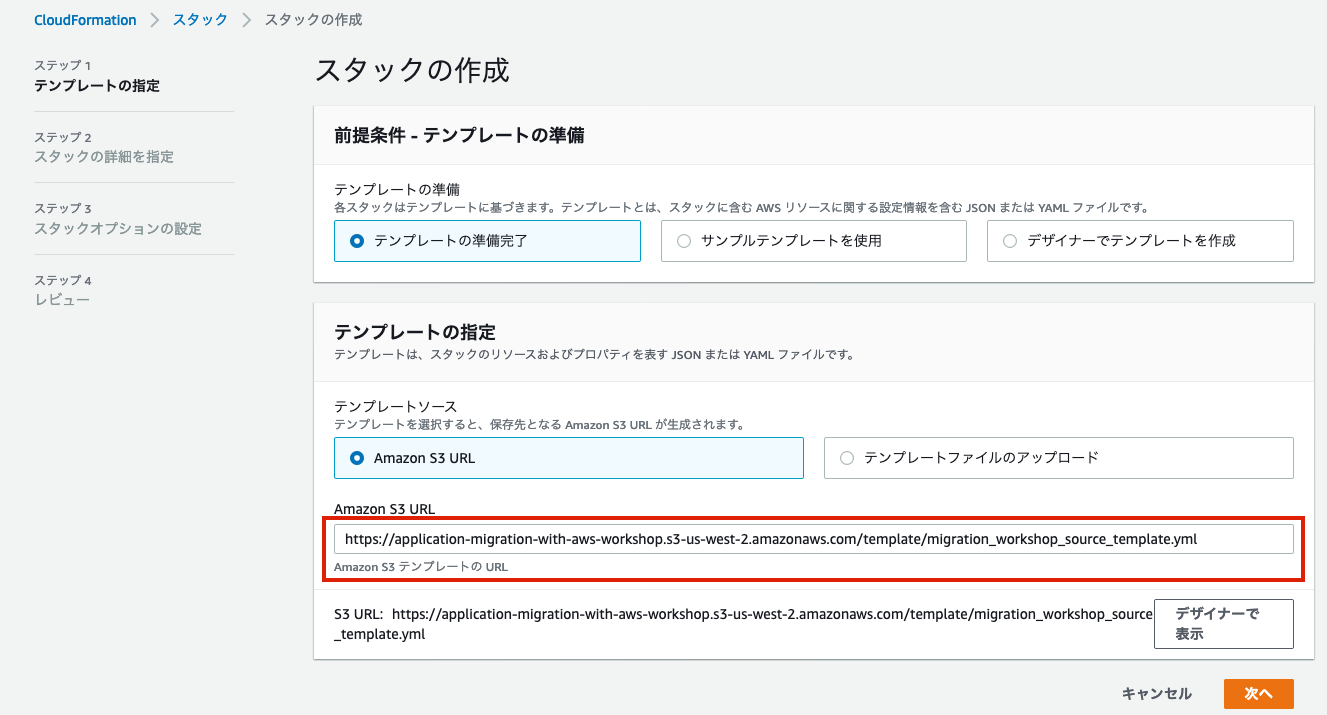
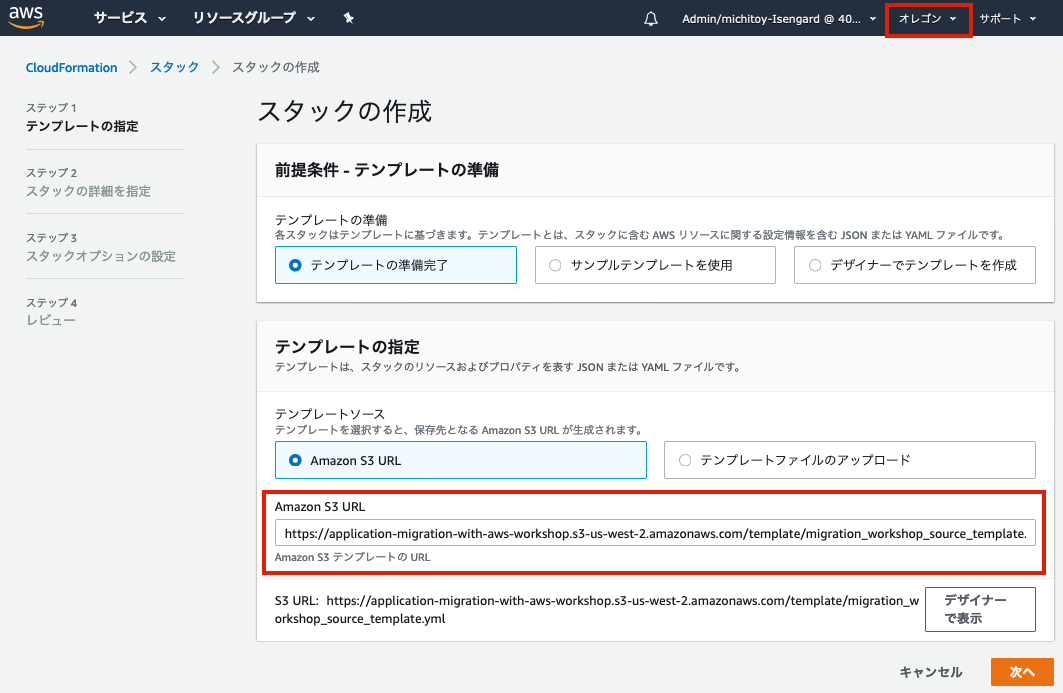
Fixed comments and standardized use of words in sections 0-2

Changed region(s): [[0.0, 0.0, 1.0, 1.0], [0.0, 0.0909, 0.1552, 0.4848], [0.1552, 0.0909, 0.1863, 0.1212]]

diff --git a/workshop/content/intro/on-your-own.ja.md b/workshop/content/intro/on-your-own.ja.md
@@ -4,51 +4,56 @@ weight = 20
 +++
 
 {{% notice warning %}}
-このセクションは、ご自身の環境でハンズオンを実施する場合にのみ、実行してください。AWS が主催するイベント（re:Invent、Gameday、ワークショップ、または AWS の従業員が主催するその他のイベント）に参加している場合は、[AWSイベントでハンズオンを開始する]({{< ref "/at-aws-event.ja.md" >}})に進んでください。
+このセクションは、ご自身の環境でハンズオンを実施する場合にのみ、実行してください。AWS が主催するイベント（re:Invent、Gameday、ワークショップ、または AWS の従業員が主催するその他のイベント）に参加している場合は、[AWSイベントでハンズオンを開始]({{< ref "/at-aws-event.ja.md" >}})に進んでください。
 {{% /notice %}}
 
 ### ハンズオン環境の準備
 
 本ハンズオンでは、AWS アカウントに<a href="https://docs.aws.amazon.com/IAM/latest/UserGuide/getting-started_create-admin-group.html" target="_blank">管理者権限</a>でアクセスできることを前提としています。新しく AWS アカウントを作成する場合は、<a href="https://aws.amazon.com/premiumsupport/knowledge-center/create-and-activate-aws-account/" target="_blank">こちらの記事</a>を参考にしてください。
 
-以下の手順では、移行元となる環境（Source）を、AWS アカウント内にデプロイします。デプロイされるリソースは、２つの t3.micro インスタンス（Web サーバ用に１つ、データベース用に１つ）、NAT Gateway、API Gateway、２つの Lambda 関数（EC2 インスタンスにアクセスする際に使用する、SSH キーペアの取得を簡略化するために使用）で構成されます。ハンズオン全体を通してデプロイされるリソースの総コストは、約４時間の作業で５ドル未満を想定しており、その一部は <a href="https://aws.amazon.com/free/" target="_blank">AWS 無料利用枠</a>でカバーされます。
+以下の手順では、移行元となる環境（ソース）を、AWS アカウント内にデプロイします。デプロイされるリソースは、2つの t3.micro インスタンス（Web サーバー用に1つ、データベース用に1つ）、NAT Gateway、API Gateway、2つの Lambda 関数（EC2 インスタンスにアクセスする際に使用する、SSH キーペアの取得を簡略化するために使用）で構成されます。ハンズオン全体を通してデプロイされるリソースの総コストは、約4時間の作業で5ドル未満を想定しており、その一部は <a href="https://aws.amazon.com/free/" target="_blank">AWS 無料利用枠</a>でカバーされます。
 
-不要な請求を避けるために、ハンズオンの完了後は必ず AWS アカウントを[クリーンアップ]({{< ref "/cleanup/_index.ja.md" >}})してください。
+不要な請求を避けるために、ハンズオンの完了後は必ず [ハンズオン環境の削除]({{< ref "/cleanup/_index.ja.md" >}})を実施してください。
 
 #### オプション1： CloudFormation による自動デプロイ
 
 1. 以下のボタンをクリックします。 <a href="https://console.aws.amazon.com/cloudformation/home?region=us-west-2#/stacks/new?stackName=ApplicationMigrationWorkshop&templateURL=https://application-migration-with-aws-workshop.s3-us-west-2.amazonaws.com/template/migration_workshop_source_template.yml" target="_blank"><img src="https://application-migration-with-aws-workshop.s3-us-west-2.amazonaws.com/static/cloudformation-launch-stack.png"></a>
 
-2. **「ステップ１ ： テンプレートの指定」** で、**Amazon S3 URL** のフィールドにテンプレートの URL（https://application-migration-with-aws-workshop.s3-us-west-2.amazonaws.com/template/migration_workshop_source_template.yml）が入力されていることを確認し、**「次へ」** をクリックします。
+2. **「ステップ1 ： テンプレートの指定」** で、画面右上に表示されるリージョンが**オレゴン**になっていること、
+**Amazon S3 URL** のフィールドにテンプレートの URL（https://application-migration-with-aws-workshop.s3-us-west-2.amazonaws.com/template/migration_workshop_source_template.yml）が入力されていることを確認し、**「次へ」** をクリックします。
 ![CloudFormation Step 1](/intro/cloudformation-step1.ja.png)
 
-3. **「ステップ２ ： スタックの詳細を指定」** で、**スタックの名前**のフィールドに、ApplicationMigrationWorkshop が入力されていることを確認し、**「次へ」** をクリックします。
+3. **「ステップ2 ： スタックの詳細を指定」** で、**スタックの名前**のフィールドに、ApplicationMigrationWorkshop が入力されていることを確認し、**「次へ」** をクリックします。
 ![CloudFormation Step 2](/intro/cloudformation-step2.ja.png)
 
-4. **「ステップ３ ： スタックオプションの設定」** では、何も変更せずに **「次へ」** をクリックします。
+4. **「ステップ3 ： スタックオプションの設定」** では、何も変更せずに **「次へ」** をクリックします。
 
-5. **「ステップ４ ： レビュー」** で、ページの一番下までスクロールし、以下のスクリーンショットのように、**すべてのチェックボックス** をオンにしてから、**「次へ」** をクリックして、スタックの作成を開始します。
+5. **「ステップ4 ： レビュー」** で、ページの一番下までスクロールし、以下のスクリーンショットのように、**すべてのチェックボックス** をオンにしてから、**「次へ」** をクリックして、スタックの作成を開始します。
 ![CloudFormation Step 4](/intro/cloudformation-step4.ja.png)
 
-スタックの状態が **CREATE_COMPLETE** になったことを確認し、**「出力」** タブから、以下のスクリーンショットのように、作成された Source 環境に関する情報を確認します。  
-作成中に、スタックのページから離れてしまった場合は、マネジメントコンソール上部の **「サービス」** から **CloudFormation** のページを開き、上の手順で作成したスタック（ApplicationMigrationWorkshop）を選択することで、元のページに戻ることが可能です。
+スタックの状態が **CREATE_COMPLETE** になったことを確認し、**「出力」** タブから、以下のスクリーンショットのように、作成されたソース環境に関する情報を確認します。  
+作成中に、スタックのページから離れてしまった場合は、マネジメントコンソール上部の **「サービス」** から **<a href="https://console.aws.amazon.com/cloudformation/home?region=us-west-2" target="_blank">CloudFormation</a>** のページを開き、上の手順で作成したスタック（ApplicationMigrationWorkshop）を選択することで、元のページに戻ることが可能です。
 ![Source Environment Information in AWS Console](/intro/self-service-env-awsconsole-info.ja.png)
 
 上で確認した情報は、ハンズオンで使用するため、テキストエディタ等にコピーを取っておいてください。
+
+{{% notice tip %}}
+AWS アカウント内に、既に同じ名前の IAM ロールが存在することで、スタックの作成が失敗する場合は、既存のロールを削除して、スタックの作成を再実行してください。
+{{% /notice %}}
 
 以上でデプロイは完了です。 [AWS Migration Hub の有効化]({{< ref "/migration-hub.ja.md" >}})に進んでください。
 
 ---
 
-#### オプション２： ソースコードからビルドしてデプロイ
+#### オプション2： ソースコードからビルドしてデプロイ
 
 {{% notice note %}}
-オプション１で環境をすでにデプロイしている場合は、オプション２を実行する必要はありません。
+オプション1で環境をすでにデプロイしている場合は、オプション2を実行する必要はありません。
 {{% /notice %}}
 
 以下のセクションでは、CloudFormation のテンプレートを作成し、AWS Command Line Interface（CLI）を使用して、環境をデプロイする方法について説明します。
 
-1. <a href="https://docs.aws.amazon.com/serverless-application-model/latest/developerguide/serverless-sam-cli-install.html" target="_blank">AWS Serverless Application Model (AWS SAM)</a> をインストールします。
+1. <a href="https://docs.aws.amazon.com/serverless-application-model/latest/developerguide/serverless-sam-cli-install.html" target="_blank">AWS Serverless Application Model (SAM)</a> をインストールします。
 
 2. <a href="https://docs.aws.amazon.com/cli/latest/userguide/cli-chap-install.html" target="_blank">AWS CLI</a> をインストールし、<a href="https://docs.aws.amazon.com/cli/latest/userguide/cli-chap-configure.html" target="_blank">設定</a>します。
 
@@ -70,10 +75,14 @@ weight = 20
    sam deploy --template-file ./migration_workshop_source_template.yml --stack-name ApplicationMigrationWorkshop --region us-west-2 --capabilities CAPABILITY_IAM CAPABILITY_NAMED_IAM CAPABILITY_AUTO_EXPAND  
    ```
 
-6. デプロイが完了すると、以下のスクリーンショットのように、Source 環境に関する情報がコンソールに表示されます。
+6. デプロイが完了すると、以下のスクリーンショットのように、ソース環境に関する情報がコンソールに表示されます。
 ![Source Environment in CLI Console](/intro/self-service-env-cli-info.ja.png)
 
-マネジメントコンソール上部の **「サービス」** から **CloudFormation** のページを開き、上の手順で作成したスタック（ApplicationMigrationWorkshop）を選択、**「出力」** タブを開くことで、同様の情報をいつでも確認することができます。
+マネジメントコンソール上部の **「サービス」** から **<a href="https://console.aws.amazon.com/cloudformation/home?region=us-west-2" target="_blank">CloudFormation</a>** のページを開き、上の手順で作成したスタック（ApplicationMigrationWorkshop）を選択、**「出力」** タブを開くことで、同様の情報をいつでも確認することができます。
 ![Source Environment Information in AWS Console](/intro/self-service-env-awsconsole-info.ja.png)
+
+{{% notice tip %}}
+AWS アカウント内に、既に同じ名前の IAM ロールが存在することで、スタックの作成が失敗する場合は、既存のロールを削除して、スタックの作成を再実行してください。
+{{% /notice %}}
 
 以上でデプロイは完了です。 [AWS Migration Hub の有効化]({{< ref "/migration-hub.ja.md" >}})に進んでください。

diff --git a/workshop/content/server-migration/CE-Cutover.ja.md b/workshop/content/server-migration/CE-Cutover.ja.md
@@ -7,11 +7,11 @@ weight = 40
 
 ボリュームのレプリケーションが完了し、CloudEndure コンソール上でマシンのステータスが **Continuous Data Replication** になっていることを確認したら、**テスト／カットオーバー**を実行することができます。
 
-テスト／カットオーバーを開始するたびに、CloudEndure Migration は、以前に作成したインスタンスを**すべて削除**し、Source 環境の最新のデータコピーを持つ新しい Target インスタンスを作成します。
+テスト／カットオーバーを開始するたびに、CloudEndure Migration は、以前に作成したインスタンスを**すべて削除**し、ソース環境の最新のデータコピーを持つ新しい ターゲットインスタンスを作成します。
 
 {{% notice note %}}
 本ハンズオンではテストをスキップして、**カットオーバーのみ**実行しますが、
-実運用においては、目標とする移行日の**少なくとも１週間前**に**テスト**を実施することをお勧めします。
+実運用においては、目標とする移行日の**少なくとも1週間前**に**テスト**を実施することをお勧めします。
 これは Blueprint の構成や、レプリケートされたボリュームの変換における、潜在的な課題を特定し、それらに対処するためです。
 {{% /notice %}}
 
@@ -29,7 +29,7 @@ weight = 40
 
     ![CE-Cutover](/ce/CE-Cutover.png)
 
-    CloudEndure は、ボリュームの最終的な同期／スナップショットを実行し、データの整合性を維持しながら、Target のインフラストラクチャに新しいサーバーを構築するプロセスを開始します。左のメニューから **Job Progress** を選択し、詳細や進行状況を確認してください。
+    CloudEndure は、ボリュームの最終的な同期／スナップショットを実行し、データの整合性を維持しながら、ターゲットのインフラストラクチャに新しいサーバーを構築するプロセスを開始します。左のメニューから **Job Progress** を選択し、詳細や進行状況を確認してください。
 
     ![CE-job-progress](/ce/CE-job-progress.png)
 
@@ -42,16 +42,16 @@ weight = 40
 
 3. CloudEndure が作成したリソースを AWS アカウント上で確認します。
    
-    AWS マネジメントコンソールに戻り、上部の **「サービス」** から **EC2** のページを開きます。
+    AWS マネジメントコンソールに戻り、上部の **「サービス」** から **<a href="https://console.aws.amazon.com/ec2/v2/home?region=us-west-2" target="_blank">EC2</a>** のページを開きます。
     必要に応じて対象の AWS リージョン（us-west-2/オレゴン）に移動してください。
 
-    CloudEndure で管理されている２つの EC2 インスタンスが、追加で表示されます：
+    CloudEndure で管理されている2つの EC2 インスタンスが、追加で表示されます：
     - **CloudEndure Machine Converter** - ブートボリュームの変換や、ブートローダへの変更の適用、ハイパーバイザードライバーやクラウドツールのインストールに使用されます。テストやカットオーバーが実行される度に、数分間稼働します。
-    - **CloudEndure Replication Server** - Source 環境にインストールされているエージェントから、暗号化されたデータを受信するために使用されます。データのレプリケーションが実行されている間稼働します。
+    - **CloudEndure Replication Server** - ソース環境にインストールされているエージェントから、暗号化されたデータを受信するために使用されます。データのレプリケーションが実行されている間稼働します。
 
     どちらのインスタンスも CloudEndure が管理しており、ユーザーがアクセスすることはできません。
 
-    カットオーバーが完了すると、リストに新しい EC2 インスタンスが表示されます - これはCloudEndure によって作成された Target の Web サーバです。後続のセクションで必要になるため、パブリック DNS (IPv4) とプライベートIP の値を、テキストエディタにコピーしておいてください。
+    カットオーバーが完了すると、リストに新しい EC2 インスタンスが表示されます - これはCloudEndure によって作成されたターゲットの Web サーバーです。後続のセクションで必要になるため、パブリック DNS (IPv4) とプライベートIP の値を、テキストエディタにコピーしておいてください。
 
     {{% notice tip %}}
 CloudEndure が管理するインスタンスや、その目的、ネットワーク要件の詳細は、<a href="https://docs.cloudendure.com/#Preparing_Your_Environments/Network_Requirements/Network_Requirements.htm" target="_blank">CloudEndure のドキュメント</a>を参照してください。

diff --git a/workshop/content/database-migration/setup_network.ja.md b/workshop/content/database-migration/setup_network.ja.md
@@ -3,7 +3,7 @@ title = "ネットワークの設定"
 weight = 15
 +++
 
-本ハンズオンでは VPN や AWS Direct Connect を使用しないため、DMS レプリケーションインスタンスは、Source データベースにはパブリックインターネット経由で接続し、Target データベースにはプライベートネットワーク経由で接続する必要があります。
+本ハンズオンでは VPN や AWS Direct Connect を使用しないため、AWS Database Migration Service （DMS）のレプリケーションインスタンスは、ソースデータベースにはパブリックインターネット経由で接続し、ターゲットデータベースにはプライベートネットワーク経由で接続する必要があります。
 
 ![Replication Instance Architecture](/db-mig/ri-network-conf.png)
 
@@ -11,7 +11,7 @@ weight = 15
 
 AWS DMS を利用するための最初のステップとして、**DMS レプリケーションインスタンス** で使用するサブネットの集合体である、**サブネットグループ** を設定する必要があります。
 
-1. マネジメントコンソール上部の **「サービス」** から **Database Migration Service** のページを開き、左のメニューから **「サブネットグループ」** をクリックします。
+1. マネジメントコンソール上部の **「サービス」** から **<a href="https://console.aws.amazon.com/dms/v2/home?region=us-west-2" target="_blank">Database Migration Service (DMS)</a>** のページを開き、左のメニューから **「サブネットグループ」** をクリックします。
 2. **「サブネットグループの作成」** ボタンをクリックします。
 3. **「レプリケーションサブネットグループの作成」** では、次のパラメータを入力します。
 
@@ -28,11 +28,11 @@ AWS DMS を利用するための最初のステップとして、**DMS レプリ
 
 ### セキュリティグループの設定
 
-次に、ハンズオンで使用する **VPC セキュリティグループ** で、DMS レプリケーションインスタンスから Target データベース（前頁で作成した RDS インスタンス）へのインバウンドトラフィックを許可する必要があります。
+次に、ハンズオンで使用する **Virtual Private Cloud (VPC) セキュリティグループ** で、DMS レプリケーションインスタンスから ターゲットデータベース（前頁で作成したデータベースインスタンス）へのインバウンドトラフィックを許可する必要があります。
 
 1. **DMS レプリケーションインスタンス** 用のセキュリティグループを作成します。
 
-    a. マネジメントコンソール上部の **「サービス」** から **EC2** のページを開き、左のメニューから **「セキュリティグループ」** をクリックします。
+    a. マネジメントコンソール上部の **「サービス」** から **<a href="https://console.aws.amazon.com/ec2/v2/home?region=us-west-2" target="_blank">EC2</a>** のページを開き、左のメニューから **「セキュリティグループ」** をクリックします。
 
     b. **「セキュリティグループの作成」** ボタンをクリックします。
 
@@ -46,9 +46,9 @@ AWS DMS を利用するための最初のステップとして、**DMS レプリ
 
 2. **DB-SG** セキュリティグループにインバウンドルールを追加します。
 
-    a. マネジメントコンソール上部の **「サービス」** から **EC2** のページを開き、左のメニューから **「セキュリティグループ」** をクリックします。
+    a. マネジメントコンソール上部の **「サービス」** から **<a href="https://console.aws.amazon.com/ec2/v2/home?region=us-west-2" target="_blank">EC2</a>** のページを開き、左のメニューから **「セキュリティグループ」** をクリックします。
   
-    b. 前頁で作成したデータベース用のセキュリティグループ **DB-SG** の**セキュリティグループ ID** をクリックします。
+    b. 前頁で作成したデータベースインスタンス用のセキュリティグループ **DB-SG** の**セキュリティグループ ID** をクリックします。
     
     c. DB-SG セキュリティグループの詳細画面で、**「インバウンドのルールの編集」** ボタンを押します。
       

diff --git a/workshop/content/database-migration/configure_source_database.ja.md b/workshop/content/database-migration/configure_source_database.ja.md
@@ -1,17 +1,17 @@
 +++
-title = "Source データベースの設定"
+title = "ソースデータベースの設定"
 weight = 35
 +++
 
 ### Change Data Capture (CDC) を使用した DMS レプリケーションタスクの実行
 
-データベース移行のダウンタイムを最小限に抑えるために、Source データベースから Target データベースへの継続的なレプリケーション（Change Data Capture, CDC）を利用します。AWS DMS における CDC とネイティブ CDC のサポートについては、<a href="https://aws.amazon.com/blogs/database/aws-dms-now-supports-native-cdc-support/" target="_blank">こちらの記事</a>を参照してください。
+データベース移行のダウンタイムを最小限に抑えるために、ソースデータベースから ターゲットデータベースへの継続的なレプリケーション（Change Data Capture, CDC）を利用します。AWS Database Migration Service (DMS) における CDC とネイティブ CDC のサポートについては、<a href="https://aws.amazon.com/blogs/database/aws-dms-now-supports-native-cdc-support/" target="_blank">こちらの記事</a>を参照してください。
 
-#### Source データベースでのバイナリログ有効化
+#### ソースデータベースでのバイナリログ有効化
 
-MySQL データベース から **AWS DMS** で継続的なレプリケーションを行う場合は、バイナリログを有効化し、Source データベースの設定変更を行う必要があります。
+MySQL データベース から **AWS DMS** で継続的なレプリケーションを行う場合は、バイナリログを有効化し、ソースデータベースの設定変更を行う必要があります。
 
-1. Source データベースサーバにログインします。
+1. ソースデータベースサーバーにログインします。
 
     **自身の環境**でハンズオンを実施している場合、接続に必要な情報は <a href="https://us-west-2.console.aws.amazon.com/cloudformation/home?region=us-west-2#/" target="_blank">CloudFormation スタック</a>（**ApplicationMigrationWorkshop**）の**出力**セクションに表示されています。
     
@@ -21,13 +21,13 @@ MySQL データベース から **AWS DMS** で継続的なレプリケーショ
     
     ![Database Server login information](/db-mig/db-server-ssh-event.png)
 
-    SSH を使ってサーバにアクセスする方法がわからない場合は、以下を確認してください：
+    SSH を使ってサーバーにアクセスする方法がわからない場合は、以下を確認してください：
     - Microsoft Windows をお使いの場合は<a href="https://docs.aws.amazon.com/AWSEC2/latest/UserGuide/putty.html" target="_blank">こちら</a>
     - Mac OS をお使いの場合は<a href="https://docs.aws.amazon.com/quickstarts/latest/vmlaunch/step-2-connect-to-instance.html#sshclient" target="_blank">こちら</a>
 
 2. **wordpress-user** データベースユーザに追加の権限を付与します。
 
-    データベースサーバで、以下のコマンドを実行します：
+    データベースサーバーで、以下のコマンドを実行します：
 
     ```
     sudo mysql -u root -pAWSRocksSince2006
@@ -40,7 +40,7 @@ MySQL データベース から **AWS DMS** で継続的なレプリケーショ
 
 3. **バイナリログ**用のディレクトリを作成します。 
 
-    データベースサーバで、以下のコマンドを実行します：
+    データベースサーバーで、以下のコマンドを実行します：
 
     ```
     sudo su - 
@@ -85,7 +85,7 @@ MySQL データベース から **AWS DMS** で継続的なレプリケーショ
     ```
 
     {{% notice warning %}}
-変更を適用するには、mysql サービスの再起動が必要です。これにより、数秒間 Source データベースへのアクセスが中断されます。
+変更を適用するには、mysql サービスの再起動が必要です。これにより数秒間、ソースデータベースへのアクセスが中断されます。
 {{% /notice %}}    
 
 6. 変更点のテストを実施します。

diff --git a/workshop/content/intro/at-aws-event.ja.md b/workshop/content/intro/at-aws-event.ja.md
@@ -5,12 +5,12 @@ weight = 30
 +++
 
 {{% notice warning %}}
-AWS が主催するイベント（re:Invent、Gameday、ワークショップ、または AWS の従業員が主催するその他のイベント）に参加している場合にのみ、このセクションを実行してください。ご自身の環境でハンズオンを実施する場合は、[自身の環境でハンズオンを開始する]({{< ref "/on-your-own.ja.md" >}})に進んでください。
+AWS が主催するイベント（re:Invent、Gameday、ワークショップ、または AWS の従業員が主催するその他のイベント）に参加している場合にのみ、このセクションを実行してください。ご自身の環境でハンズオンを実施する場合は、[自身の環境でハンズオンを開始]({{< ref "/on-your-own.ja.md" >}})に進んでください。
 {{% /notice %}}
 
 ### ダッシュボードへのアクセス
 
-以下のセクションでは、移行元となる環境（Source）に関する情報へのアクセス方法について、説明します。
+以下のセクションでは、移行元となる環境（ソース）に関する情報へのアクセス方法について、説明します。
 
 - <a href="https://dashboard.eventengine.run/" target="_blank">https://dashboard.eventengine.run/</a> にアクセスします
 
@@ -21,9 +21,9 @@ AWS が主催するイベント（re:Invent、Gameday、ワークショップ、
 
 
 
-### 移行元（Source）環境へのアクセス
+### 移行元（ソース）環境へのアクセス
 
-**Migration GameDay** モジュールの、**Outputs** セクション配下に、Source 環境に関する詳細が表示されます：
+**Migration GameDay** モジュールの、**Outputs** セクション配下に、ソース環境に関する詳細が表示されます：
 
   ![dashboard-output](/intro/src-env-output.png)
 
@@ -44,7 +44,7 @@ AWS が主催するイベント（re:Invent、Gameday、ワークショップ、
 
 
 {{% notice note %}}
-<a href="https://aws.amazon.com/cli/" target="_blank">AWS Command Line Interface (AWS CLI)</a> を使用する場合は、ポップアップウィンドウに表示される認証情報を利用してください。なお、この認証情報は CloudEndure で使用するものとは異なりますので、CloudEndure コンソールの AWS 認証タブには入力しないで下さい。
+<a href="https://aws.amazon.com/cli/" target="_blank">AWS Command Line Interface (CLI)</a> を使用する場合は、ポップアップウィンドウに表示される認証情報を利用してください。なお、この認証情報は CloudEndure で使用するものとは異なりますので、CloudEndure コンソールの AWS Credentials タブには入力しないで下さい。
 {{% /notice %}}
 
 以上で環境の確認は完了です。 [AWS Migration Hub の有効化]({{< ref "/migration-hub.ja.md" >}})に進んでください。

diff --git a/workshop/content/database-migration/Create-Source-and-Target-endpoints.ja.md b/workshop/content/database-migration/Create-Source-and-Target-endpoints.ja.md
@@ -4,9 +4,9 @@ weight = 30
 +++
 
 
-### エンドポイントの作成
+### ソースとターゲットのエンドポイントの作成
 
-**AWS DMS** のページで、左のメニューから **「エンドポイント」** を選択し、**「エンドポイントの作成」** ボタンをクリックします。
+**AWS Database Migration Service (DMS)** のページで、左のメニューから **「エンドポイント」** を選択し、**「エンドポイントの作成」** ボタンをクリックします。
 
 1. ソースエンドポイントを作成します。 
 
@@ -25,7 +25,7 @@ weight = 30
 
     ![source-endpoint](/db-mig/source-endpoint.ja.png)
 
-    **「エンドポイント接続のテスト（オプション）」** セクションを開き、**VPC** のドロップダウンリストから **TargetVPC** を選択し、**「テストの実行」** ボタンをクリックすることで、エンドポイントの設定が有効であることを確認します。
+    **「エンドポイント接続のテスト（オプション）」** セクションを開き、**Virtual Private Cloud (VPC)** のドロップダウンリストから **TargetVPC** を選択し、**「テストの実行」** ボタンをクリックすることで、エンドポイントの設定が有効であることを確認します。
 
     ![test-source-endpoint](/db-mig/test-source-endpoint.ja.png)
 
@@ -41,7 +41,7 @@ weight = 30
     | ------------------- | ----------------------------------------------------- |
     | エンドポイントタイプ       | ターゲットエンドポイント                                       |
     | RDS DB インスタンスの選択  | チェックを入れる                                            |
-    | RDS インスタンス          | 前頁で作成した RDS インスタンスをドロップダウンリストから選択（表示されない場合は、手動で DB 識別子を入力）  |
+    | RDS インスタンス          | 前頁で作成した Amazon Relational Database Service (RDS) のインスタンスをドロップダウンリストから選択（表示されない場合は、手動で DB 識別子を入力）  |
     | エンドポイント識別子       | target-endpoint                                       |
     | ターゲットエンジン         | mysql （自動入力）                                                |
     | サーバー名                | RDS インスタンスの DNS エンドポイント（自動入力）                             |

diff --git a/workshop/content/server-migration/CE-Agent-Installation.ja.md b/workshop/content/server-migration/CE-Agent-Installation.ja.md
@@ -1,14 +1,14 @@
 +++
-title = "Source マシンへのエージェントインストール"
+title = "ソースマシンへのエージェントインストール"
 weight = 20
 +++
 
-<a href="https://console.cloudendure.com">CloudEndure コンソール</a>から、Source マシンの追加方法と、マシンにエージェントをインストールするための手順が表示される **Machines** 画面に移動します。
+<a href="https://console.cloudendure.com">CloudEndure コンソール</a>から、ソースマシンの追加方法と、マシンにエージェントをインストールするための手順が表示される **Machines** 画面に移動します。
 ![CE-Agent-install](/ce/CE-Agent-install.png)
 
-#### Web サーバへのエージェントインストール
+#### Web サーバーへのエージェントインストール
 
-1. Web サーバに関する情報を確認します。
+1. Web サーバーに関する情報を確認します。
 
     **自身の環境**でハンズオンを実施している場合は、<a href="https://us-west-2.console.aws.amazon.com/cloudformation/home?region=us-west-2#/" target="_blank">CloudFormation スタック</a>（**ApplicationMigrationWorkshop**）の**出力**セクションから確認してください。
 
@@ -18,12 +18,12 @@ weight = 20
 
     ![Centos-pem](/ce/Centos-pem.png)
 
-2. Web サーバの SSH キー（.pem）をダウンロードして、ローカルに保存します（例： webserver.pem）
+2. Web サーバーの SSH キー（.pem）をダウンロードして、ローカルに保存します（例： webserver.pem）
 
     Microsoft Windows をお使いの場合は、PuttyGen を使って SSH キー（.pem）を .ppk に変換してから、 Putty を使って接続してください（詳細は<a href="https://docs.aws.amazon.com/AWSEC2/latest/UserGuide/putty.html" target="_blank">こちら</a>をご確認ください）。
     
 
-3. Web サーバに、SSH ターミナルを使って接続します。
+3. Web サーバーに、SSH ターミナルを使って接続します。
 
     - Microsoft Windows をお使いの場合は<a href="https://docs.aws.amazon.com/AWSEC2/latest/UserGuide/putty.html" target="_blank">こちら</a>
     - Mac OS をお使いの場合は<a href="https://docs.aws.amazon.com/quickstarts/latest/vmlaunch/step-2-connect-to-instance.html#sshclient" target="_blank">こちら</a>

diff --git a/workshop/content/database-migration/Create-and-run-Replication-task.ja.md b/workshop/content/database-migration/Create-and-run-Replication-task.ja.md
@@ -5,7 +5,7 @@ weight = 40
 
 ### レプリケーションタスクの作成と実行
 
-マネジメントコンソール上部の **「サービス」** から **Database Migration Service** のページを開き、左のメニューから **「データベース移行タスク」** をクリックします。**「タスクの作成」** ボタンをクリックして、レプリケーションタスクの作成を開始します。
+マネジメントコンソール上部の **「サービス」** から **<a href="https://console.aws.amazon.com/dms/v2/home?region=us-west-2" target="_blank">Database Migration Service (DMS)</a>** のページを開き、左のメニューから **「データベース移行タスク」** をクリックします。**「タスクの作成」** ボタンをクリックして、レプリケーションタスクの作成を開始します。
 
 1. **「データ移行タスクの作成」** 画面で、以下のパラメータを入力します。
 
@@ -30,10 +30,10 @@ weight = 40
     
     ![create-task-2](/db-mig/create-task-2.ja.png)
     
-3. **「テーブルマッピング」** のセクションで、**「ガイド付き UI」** を選択し、**「新しい選択ルールの追加」** ボタンをクリックします。スキーマのドロップダウンリストから **wordpress-db** を選択します。
+3. **「テーブルマッピング」** のセクションで、**「ガイド付き UI」** を選択し、**「新しい選択ルールの追加」** ボタンをクリックします。**スキーマ**のドロップダウンリストから **wordpress-db** を選択します。
 
     {{% notice note %}}
-スキーマのドロップダウンリストに **wordpress-db** が表示されない場合は、スキーマのドロップダウンリストから、**「スキーマの入力」** を選択し、スキーマ名のフィールドに **wordpress-db** を入力します。
+**スキーマ**のドロップダウンリストに wordpress-db が表示されない場合は、**スキーマ**のドロップダウンリストから、**「スキーマの入力」** を選択し、**スキーマ名**のフィールドに **wordpress-db** を入力します。
 {{% /notice %}}    
 
     ![Create-task-3](/db-mig/Create-task-3.ja.png)

diff --git a/workshop/content/_index.ja.md b/workshop/content/_index.ja.md
@@ -6,18 +6,18 @@ pre = "<b>0. </b>"
 +++
 
 本ハンズオンでは、BuyMyUnicorns という eコマースシステムのクラウド移行にチャレンジいただきます！
-まずは、移行元（Source）と移行先の環境（Target）について、以下を確認してください。
+まずは、移行元（ソース）と移行先の環境（ターゲット）について、以下を確認してください。
 
-## 移行元環境：Source
+## 移行元環境：ソース
 
 ![source-env](/intro/source-env.png)
 
-Source 環境は、２層で構成される eコマースの Web アプリケーションです。  
-Apache、PHP、Wordpress、WooCommerce が稼働する Ubuntu ベースの Web サーバと、MySQL バージョン5.7 が稼働する Ubuntu ベースのデータベースサーバで、構成されています。
+ソース環境は、2層で構成される eコマースの Web アプリケーションです。  
+Apache、PHP、Wordpress、WooCommerce が稼働する Ubuntu ベースの Web サーバーと、MySQL バージョン5.7 が稼働する Ubuntu ベースのデータベースサーバーで、構成されています。
 
-## 移行先環境：Target
+## 移行先環境：ターゲット
 
 ![target-env](/intro/target-vpc.png)
 
-Source 環境で稼働する eコマースシステムを AWS Cloud に移行します。
-上の図は移行先のネットワークとなる VPC が、２つのアベイラビリティゾーンにまたがる６つのサブネットで構成されることを示しています。
+ソース環境で稼働する eコマースシステムを AWS Cloud に移行します。
+上の図は移行先のネットワークとなる VPC が、2つのアベイラビリティゾーンにまたがる6つのサブネットで構成されることを示しています。

diff --git a/workshop/content/intro/migration-hub.ja.md b/workshop/content/intro/migration-hub.ja.md
@@ -5,14 +5,14 @@ weight = 30
 
 #### AWS Migration Hub
 
-<a href="https://aws.amazon.com/migration-hub/" target="_blank">AWS Migration Hub</a> では、AWS およびパートナーの複数のソリューションにおける、アプリケーション移行の進行状況を１つの場所から追跡できます。  
-有効化するには、マネジメントコンソール上部の **「サービス」** から **AWS Migration Hub** のページを開きます。
+<a href="https://aws.amazon.com/migration-hub/" target="_blank">AWS Migration Hub</a> では、AWS およびパートナーの複数のソリューションにおける、アプリケーション移行の進行状況を1つの場所から追跡できます。  
+有効化するには、マネジメントコンソール上部の **「サービス」** から **<a href="https://console.aws.amazon.com/migrationhub/home?region=us-west-2" target="_blank">AWS Migration Hub</a>** のページを開きます。
 左のメニューから **「移行」** を選択し、**米国西部（オレゴン）** をホームリージョンに設定してください。
 
 ![Migration Hub - choose home region](/intro/migration-hub-choose-home-region.ja.png)
 
 次に、**「移行」 → 「ツール」** をクリックして、AWS Migration Hub に移行状況の更新情報を送信するツールを選択します。
-追加設定なしで使用できる CloudEndure Migration に加え、今回は **AWS Database Migration Service** との接続を設定します。
+追加設定なしで使用できる CloudEndure Migration に加え、今回は **AWS Database Migration Service (DMS)** との接続を設定します。
 
 ページの一番下までスクロールし、**AWS Database Migration Service** カードの **「接続」** ボタンをクリックします。
 
